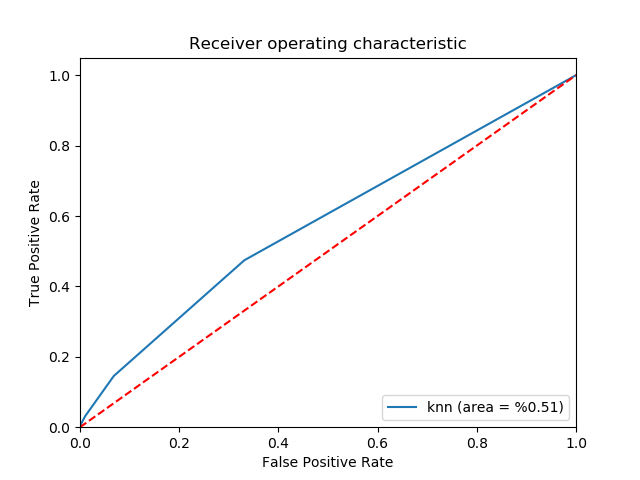
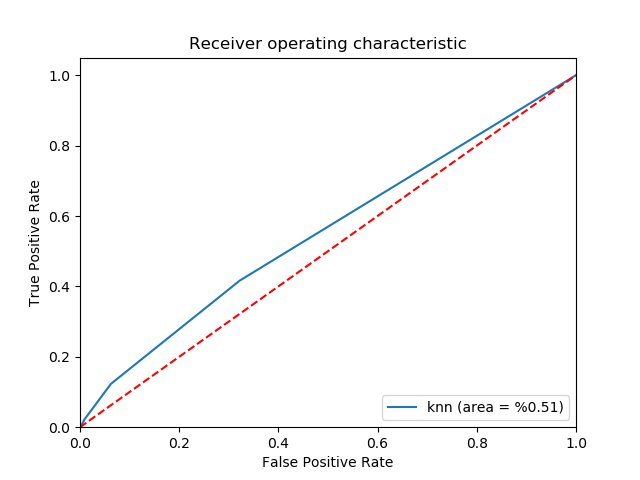
This commit adds results from historical and nonshitorical segments

diff --git a/NN_austin.py b/NN_austin.py
@@ -35,8 +35,8 @@ def record_file(args, df):
 
     with open(file_name+'results.txt', 'w') as f:
         f.write('---This file was generate as a part of Senior Design by team 14 on {} ---'.format(dt.datetime.today()))
-        f.write('COMMAND LINE ARGUMENTS:\n '+', '.join([str(i)+': '+str(j) for i, j in zip(parameter_names, parameters)]))
-
+        f.write('\nCOMMAND LINE ARGUMENTS:\n '+', '.join([str(i)+': '+str(j) for i, j in zip(parameter_names, parameters)]))
+        f.write('\nTraining Group: {}\nNumber of Encounters: {}\nNumber of Features: {}'.format(args.group.upper(),len(df), len(df.columns)))
     return file_name
 
 #unique patients
@@ -61,10 +61,10 @@ def classification_report_csv(report):
 
     return dataframe
 
-def record_results(model, results, file_name):
+def record_results(model, results, file_name, group):
 
     with open(file_name+'results.txt', 'a') as f:
-        f.write('\n\n----------Writing Results for __{}__ ----------\n'.format(model))
+        f.write('\n\n----------Writing Results for __{}_{}__ ----------\n'.format(model, group))
         f.write('Accuracy Score:\t{}\n'.format(results['Accuracy Score']))
         f.write('Confusion Matrix:\n{}\n'.format(np.array_str(results['Confusion Matrix'])))
         # f.write('Classification Report:\n{}\n'.format(classification_report_csv(results['Classification Report'])))
@@ -168,63 +168,72 @@ def main(args):
             print('fitting {} model'.format(model))
             classifier.fit(X_train, y_train)
 
-        
+        print('GENERAL')
         results = make_results(classifier, X_test, y_test, model, file_name)
-        record_results(model, results, file_name)
+        record_results(model, results, file_name, args.group.upper())
+        if args.group == 'all':
+            hist_mask = X_test['count_app'] >= 1
+            nonhist_mask = X_test['count_app'] == 0
+            print('HISTORICAL')
+            results_hist = make_results(classifier, X_test[hist_mask], y_test[hist_mask], model, file_name)
+            record_results(model, results_hist, file_name, 'HISTORICAL')
 
+            print('NONHISTORICAL')
+            results_nonhist = make_results(classifier, X_test[nonhist_mask], y_test[nonhist_mask], model, file_name)
+            record_results(model, results_nonhist, file_name, 'NONHISTORICAL')
     #fit the model
-    print('='*20)
-    print('FITTING MODEL')
-    print('INTERNAL WORKINGS')
-    # classifier.fit(X_train, y_train)
-    coefs = sorted([(i,round(j,3)) for i , j in zip(X_test.columns, classifier.coef_[0])], key = lambda x: abs(x[1]), reverse = True)
-    if args.model =='log':
-        for i in coefs:
-            print("{}:\t\t\t{}".format(i[0],i[1]))
-    elif args.model == 'dtree':
-        print('something to come')
+    # print('='*20)
+    # print('FITTING MODEL')
+    # print('INTERNAL WORKINGS')
+    # # classifier.fit(X_train, y_train)
+    # coefs = sorted([(i,round(j,3)) for i , j in zip(X_test.columns, classifier.coef_[0])], key = lambda x: abs(x[1]), reverse = True)
+    # if args.model =='log':
+    #     for i in coefs:
+    #         print("{}:\t\t\t{}".format(i[0],i[1]))
+    # elif args.model == 'dtree':
+    #     print('something to come')
 
-    #predict the classes
-    print('='*20)
-    print('PREDICTING')
-    y_pred = classifier.predict(X_test)
+    # #predict the classes
+    # print('='*20)
+    # print('PREDICTING')
+    # y_pred = classifier.predict(X_test)
 
-    print('GENERAL')
-    print('Accuracy score: ', accuracy_score(y_test, y_pred))
-    print('CONFUSION MATRIX')
-    print(confusion_matrix(y_test, y_pred))  
-    print(classification_report(y_test, y_pred))
+    # print('GENERAL')
+    # print('Accuracy score: ', accuracy_score(y_test, y_pred))
+    # print('CONFUSION MATRIX')
+    # print(confusion_matrix(y_test, y_pred))  
+    # print(classification_report(y_test, y_pred))
 
-    #look into how each model performs historical and nonhistorical subsets
-    hist_mask = X_test['count_app'] >= 1
-    nonhist_mask = X_test['count_app'] == 0
-    if args.group == 'all':
-        print('HISTORICAL')
-        print('Accuracy score: ', accuracy_score(y_test[hist_mask], y_pred[hist_mask]))
-        print('CONFUSION MATRIX')
-        print(confusion_matrix(y_test[hist_mask], y_pred[hist_mask]))  
-        print(classification_report(y_test[hist_mask], y_pred[hist_mask]))
+    # #look into how each model performs historical and nonhistorical subsets
+    # hist_mask = X_test['count_app'] >= 1
+    # nonhist_mask = X_test['count_app'] == 0
+    # if args.group == 'all':
+    #     print('HISTORICAL')
+    #     print('Accuracy score: ', accuracy_score(y_test[hist_mask], y_pred[hist_mask]))
+    #     print('CONFUSION MATRIX')
+    #     print(confusion_matrix(y_test[hist_mask], y_pred[hist_mask]))  
+    #     print(classification_report(y_test[hist_mask], y_pred[hist_mask]))
 
-        print('NON-HISTORICAL')
-        print('Accuracy score: ', accuracy_score(y_test[nonhist_mask], y_pred[nonhist_mask]))
-        print('CONFUSION MATRIX')
-        print(confusion_matrix(y_test[nonhist_mask], y_pred[nonhist_mask]))  
-        print(classification_report(y_test[nonhist_mask], y_pred[nonhist_mask]))
+    #     print('NON-HISTORICAL')
+    #     print('Accuracy score: ', accuracy_score(y_test[nonhist_mask], y_pred[nonhist_mask]))
+    #     print('CONFUSION MATRIX')
+    #     print(confusion_matrix(y_test[nonhist_mask], y_pred[nonhist_mask]))  
+    #     print(classification_report(y_test[nonhist_mask], y_pred[nonhist_mask]))
 
-    #print the ROC graph
-    logit_roc_auc = roc_auc_score(y_test, classifier.predict(X_test))
-    fpr, tpr, thresholds = roc_curve(y_test, classifier.predict_proba(X_test)[:,1])
-    plt.figure()
-    plt.plot(fpr, tpr, label='SVM (area = %0.2f)' % logit_roc_auc)
-    plt.plot([0, 1], [0, 1],'r--')
-    plt.xlim([0.0, 1.0])
-    plt.ylim([0.0, 1.05])
-    plt.xlabel('False Positive Rate')
-    plt.ylabel('True Positive Rate')
-    plt.title('Receiver operating characteristic')
-    plt.legend(loc="lower right")
-    plt.savefig('Log_ROC')
-    plt.show()
+    # #print the ROC graph
+    # logit_roc_auc = roc_auc_score(y_test, classifier.predict(X_test))
+    # fpr, tpr, thresholds = roc_curve(y_test, classifier.predict_proba(X_test)[:,1])
+    # plt.figure()
+    # plt.plot(fpr, tpr, label='SVM (area = %0.2f)' % logit_roc_auc)
+    # plt.plot([0, 1], [0, 1],'r--')
+    # plt.xlim([0.0, 1.0])
+    # plt.ylim([0.0, 1.05])
+    # plt.xlabel('False Positive Rate')
+    # plt.ylabel('True Positive Rate')
+    # plt.title('Receiver operating characteristic')
+    # plt.legend(loc="lower right")
+    # plt.savefig('Log_ROC')
+    # plt.show()
 
 
 if __name__ == '__main__':
